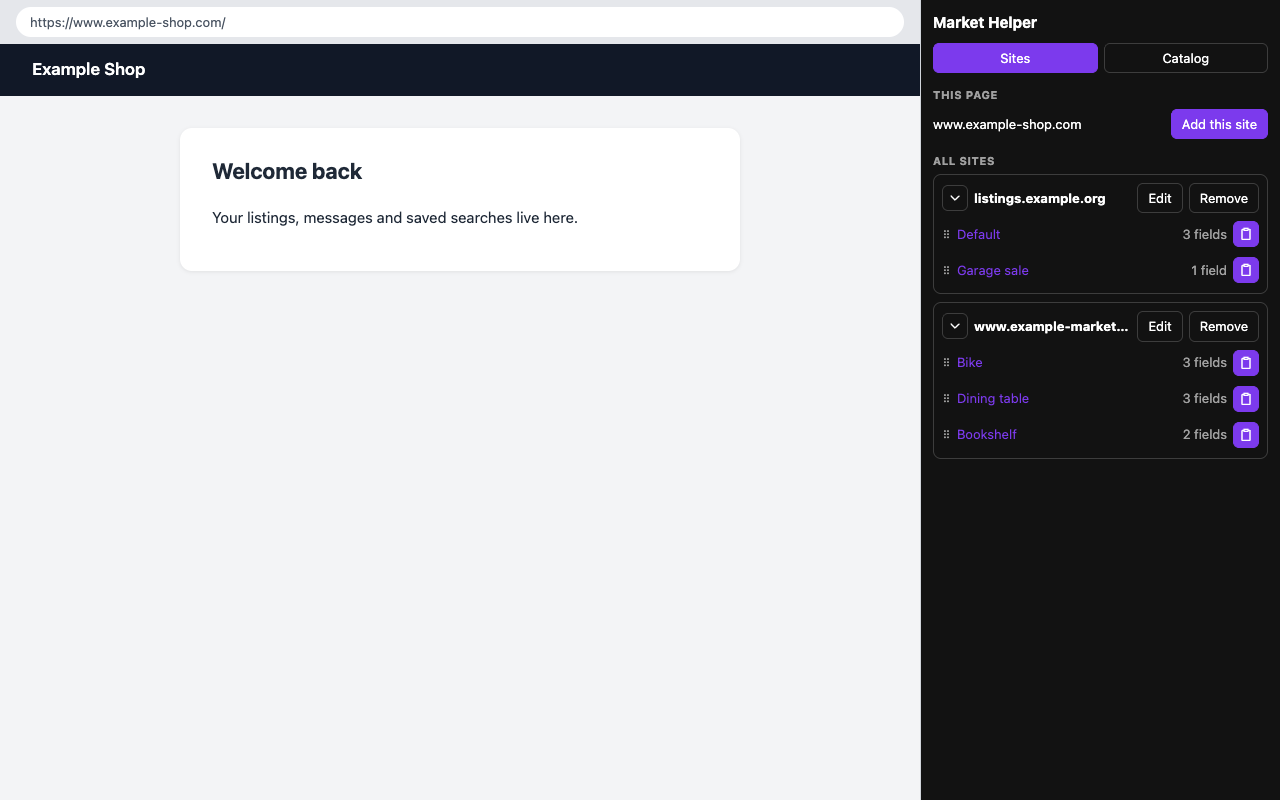
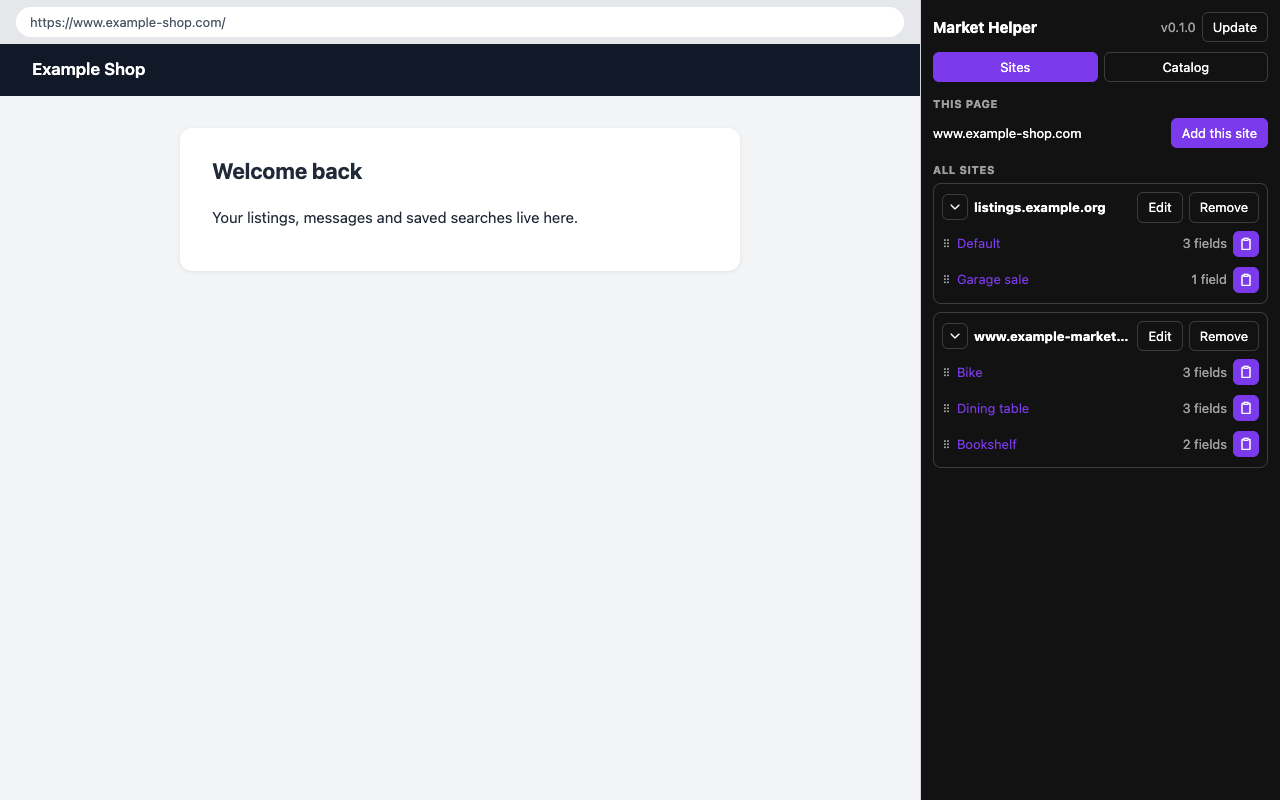
Add an Update button and show the version in the panel header
A store install checks the store for a newer version; an unpacked
install reloads from its folder.

Claude-Session: https://claude.ai/code/session_01H8fLMCFejtbdWEGrki4jy9

Changed region(s): [[0.7188, 0.0, 1.0, 0.5938], [0.9062, 0.125, 1.0, 0.1875], [0.9062, 0.0312, 1.0, 0.0938]]

diff --git a/panel.js b/panel.js
@@ -575,8 +575,50 @@ function renderTabs() {
   app.append(el('div', { className: 'row' }, tabButton('sites', 'Sites'), tabButton('catalog', 'Catalog')));
 }
 
+// Chrome adds update_url to the manifest of anything installed from the store.
+const FROM_STORE = 'update_url' in chrome.runtime.getManifest();
+const VERSION = chrome.runtime.getManifest().version;
+
+// A store install asks the store for a newer version. An unpacked install can
+// only reload its own folder, so pull the new files first.
+async function updateExtension() {
+  if (!FROM_STORE) return chrome.runtime.reload();
+  setStatus('Checking for updates…');
+  try {
+    const { status, version } = await chrome.runtime.requestUpdateCheck();
+    if (status === 'update_available') {
+      setStatus(`Updating to ${version}…`);
+      return chrome.runtime.reload();
+    }
+    setStatus(
+      status === 'throttled'
+        ? 'Chrome is limiting update checks. Try again in a few minutes.'
+        : `You're on the latest version (${VERSION}).`,
+    );
+  } catch (error) {
+    setStatus(`Couldn't check for updates: ${error.message}`);
+  }
+}
+
+function renderHeader() {
+  return el(
+    'div',
+    { className: 'row header' },
+    el('h1', { className: 'grow' }, 'Market Helper'),
+    el('span', { className: 'muted' }, `v${VERSION}`),
+    el(
+      'button',
+      {
+        title: FROM_STORE ? 'Check the Chrome Web Store for a newer version' : 'Reload the extension from its folder',
+        onclick: updateExtension,
+      },
+      'Update',
+    ),
+  );
+}
+
 function render() {
-  app.replaceChildren(el('h1', {}, 'Market Helper'));
+  app.replaceChildren(renderHeader());
   setStatus('');
   renderTabs();
   if (view === 'catalog') return renderCatalog();

diff --git a/panel.css b/panel.css
@@ -20,6 +20,14 @@ h1 {
   font-size: 15px;
 }
 
+.header {
+  margin-bottom: 10px;
+}
+
+.header h1 {
+  margin: 0;
+}
+
 h2 {
   margin: 14px 0 6px;
   font-size: 11px;

diff --git a/README.md b/README.md
@@ -20,6 +20,13 @@ Clicking the extension opens it in Chrome's side panel, which stays open while y
 
 **All sites** lists every saved site with its profiles underneath; the arrow collapses or expands the list. Each profile has a paste icon, which fills its fields in the current tab or any open tab on that site. Drag a profile to reorder it, or click its name to edit it.
 
+## Updating
+
+The **Update** button at the top of the panel depends on how the extension was installed:
+
+- **From the Chrome Web Store:** it checks the store for a newer version and restarts into it.
+- **Load unpacked:** it reloads the extension from its folder, so pull the new files first (`git pull`), then press it and reopen the panel.
+
 ## Catalog
 
 The **Catalog** tab keeps a list of the items you sell. Each item has a title, price, quantity, condition, description, and any number of photos and videos. Changes save as you type.
